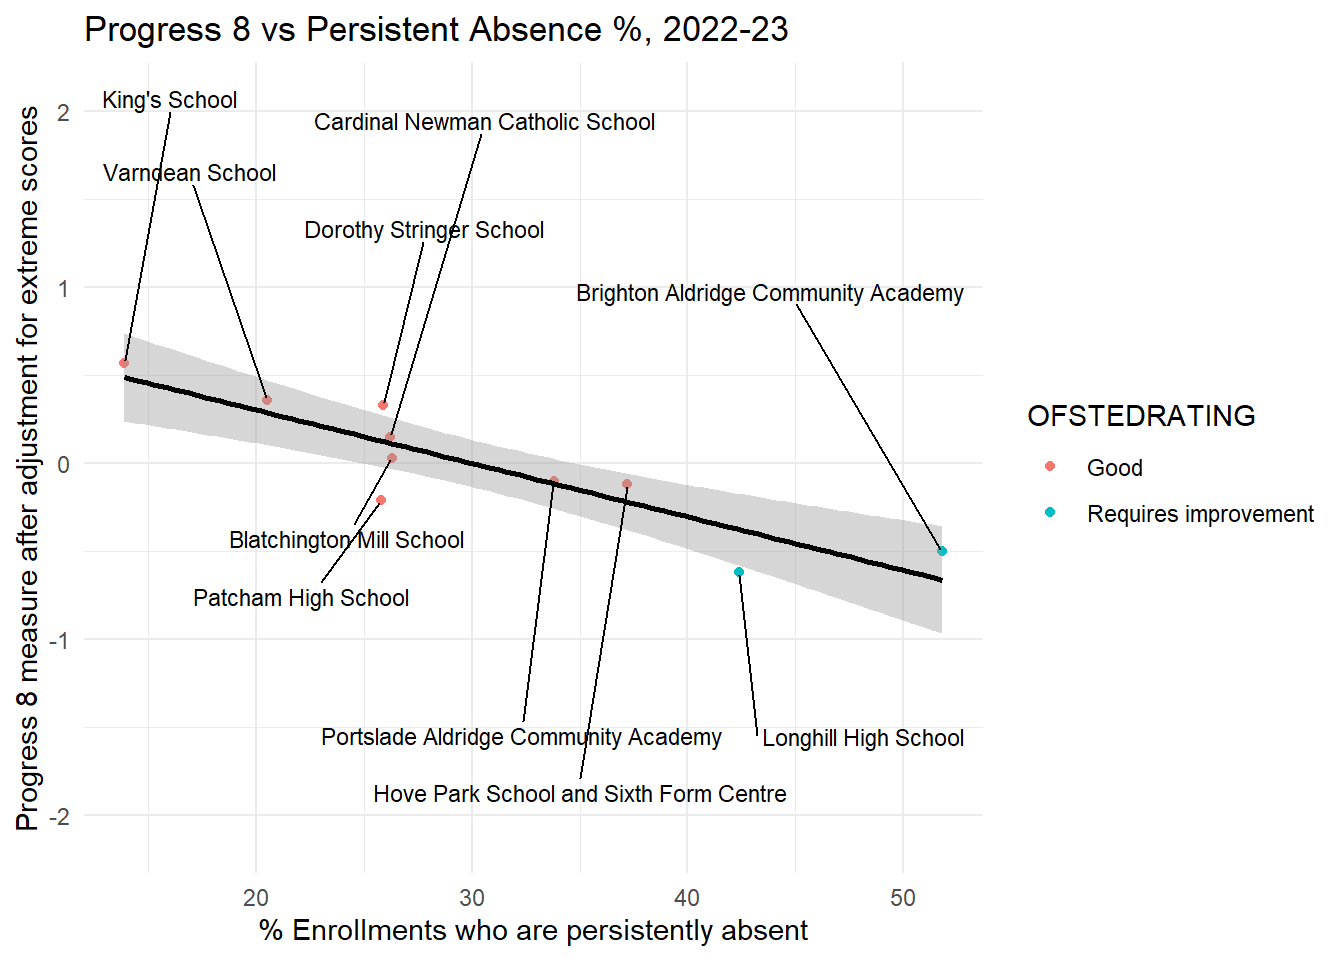
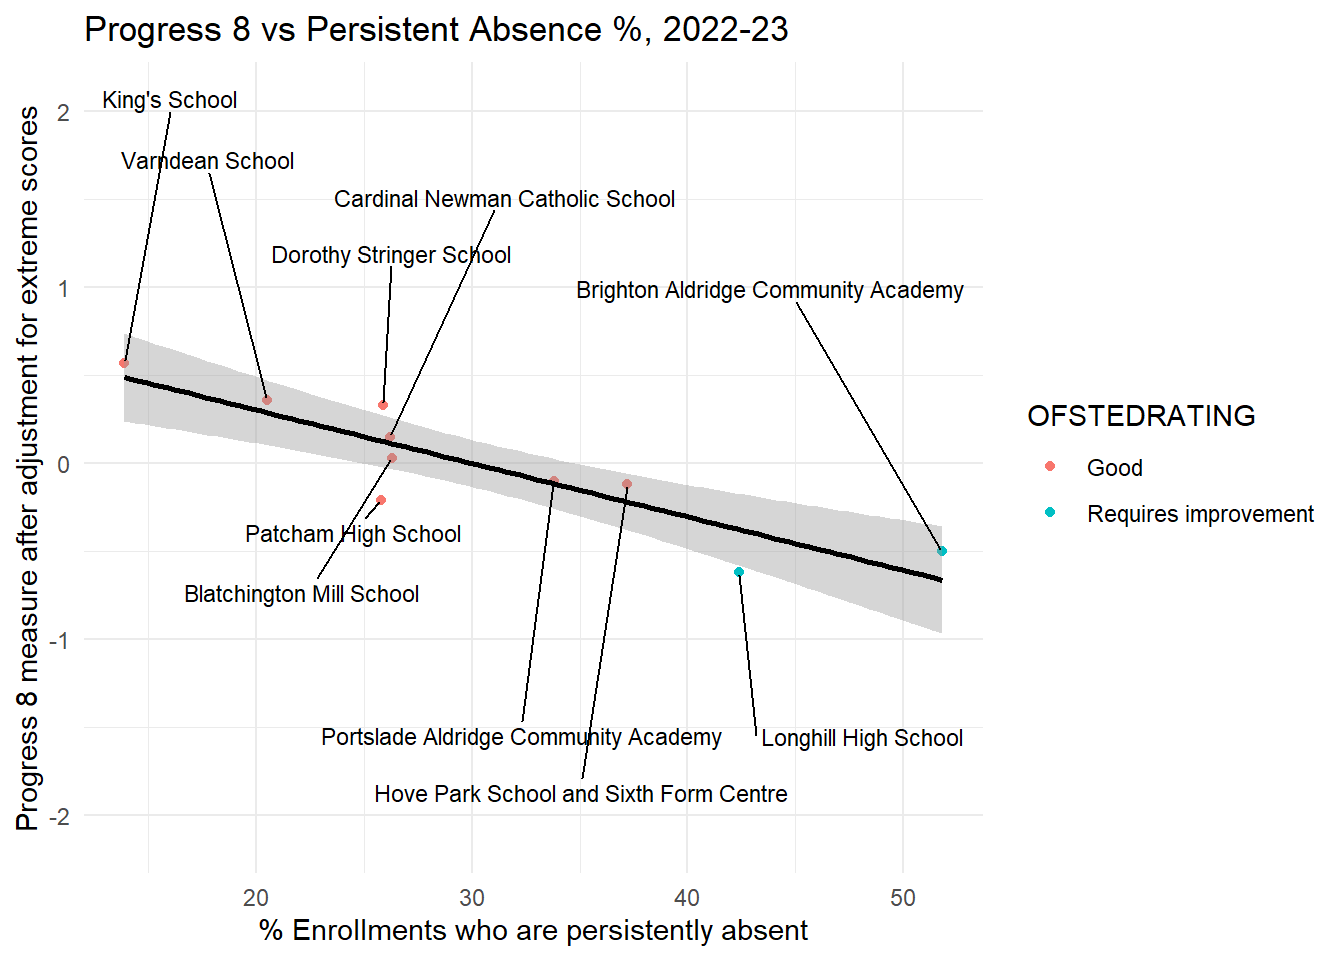
update

diff --git a/absence.html b/absence.html
@@ -360,22 +360,22 @@ OFSTEDRATING 1.289714  4        1.032314</code></pre>
 <tbody>
   <tr>
    <td style="text-align:left;font-weight: bold;"> (Intercept) </td>
-   <td style="text-align:right;"> 0.81 </td>
-   <td style="text-align:right;"> 0.02 </td>
-   <td style="text-align:right;"> 36.32 </td>
+   <td style="text-align:right;"> -0.03 </td>
+   <td style="text-align:right;"> 0.01 </td>
+   <td style="text-align:right;"> -4.22 </td>
    <td style="text-align:right;"> 0.00 </td>
   </tr>
   <tr>
    <td style="text-align:left;font-weight: bold;"> PPERSABS10 </td>
-   <td style="text-align:right;"> -0.03 </td>
-   <td style="text-align:right;"> 0.00 </td>
+   <td style="text-align:right;"> -0.25 </td>
+   <td style="text-align:right;"> 0.01 </td>
    <td style="text-align:right;"> -31.66 </td>
    <td style="text-align:right;"> 0.00 </td>
   </tr>
   <tr>
    <td style="text-align:left;font-weight: bold;"> PTFSM6CLA1A </td>
-   <td style="text-align:right;"> -0.00 </td>
-   <td style="text-align:right;"> 0.00 </td>
+   <td style="text-align:right;"> -0.05 </td>
+   <td style="text-align:right;"> 0.01 </td>
    <td style="text-align:right;"> -6.87 </td>
    <td style="text-align:right;"> 0.00 </td>
   </tr>
@@ -409,8 +409,14 @@ OFSTEDRATING 1.289714  4        1.032314</code></pre>
   </tr>
 </tbody>
 <tfoot><tr><td style="padding: 0; " colspan="100%">
-<sup></sup> Standard errors: OLS</td></tr></tfoot>
+<sup></sup> Standard errors: OLS; Continuous predictors are mean-centered and scaled by 1 s.d. The outcome variable remains in its original units.</td></tr></tfoot>
 </table>
+</div>
+</div>
+<div class="cell">
+<div class="sourceCode cell-code" id="cb4"><pre class="sourceCode r code-with-copy"><code class="sourceCode r"><span id="cb4-1"><a href="#cb4-1" aria-hidden="true" tabindex="-1"></a><span class="fu">plot_summs</span>(model, <span class="at">inner_ci_level =</span> .<span class="dv">9</span>, <span class="at">scale =</span> <span class="cn">TRUE</span>)</span></code><button title="Copy to Clipboard" class="code-copy-button"><i class="bi"></i></button></pre></div>
+<div class="cell-output-display">
+<p><img src="absence_files/figure-html/unnamed-chunk-23-1.png" class="img-fluid" width="672"></p>
 </div>
 </div>
 
